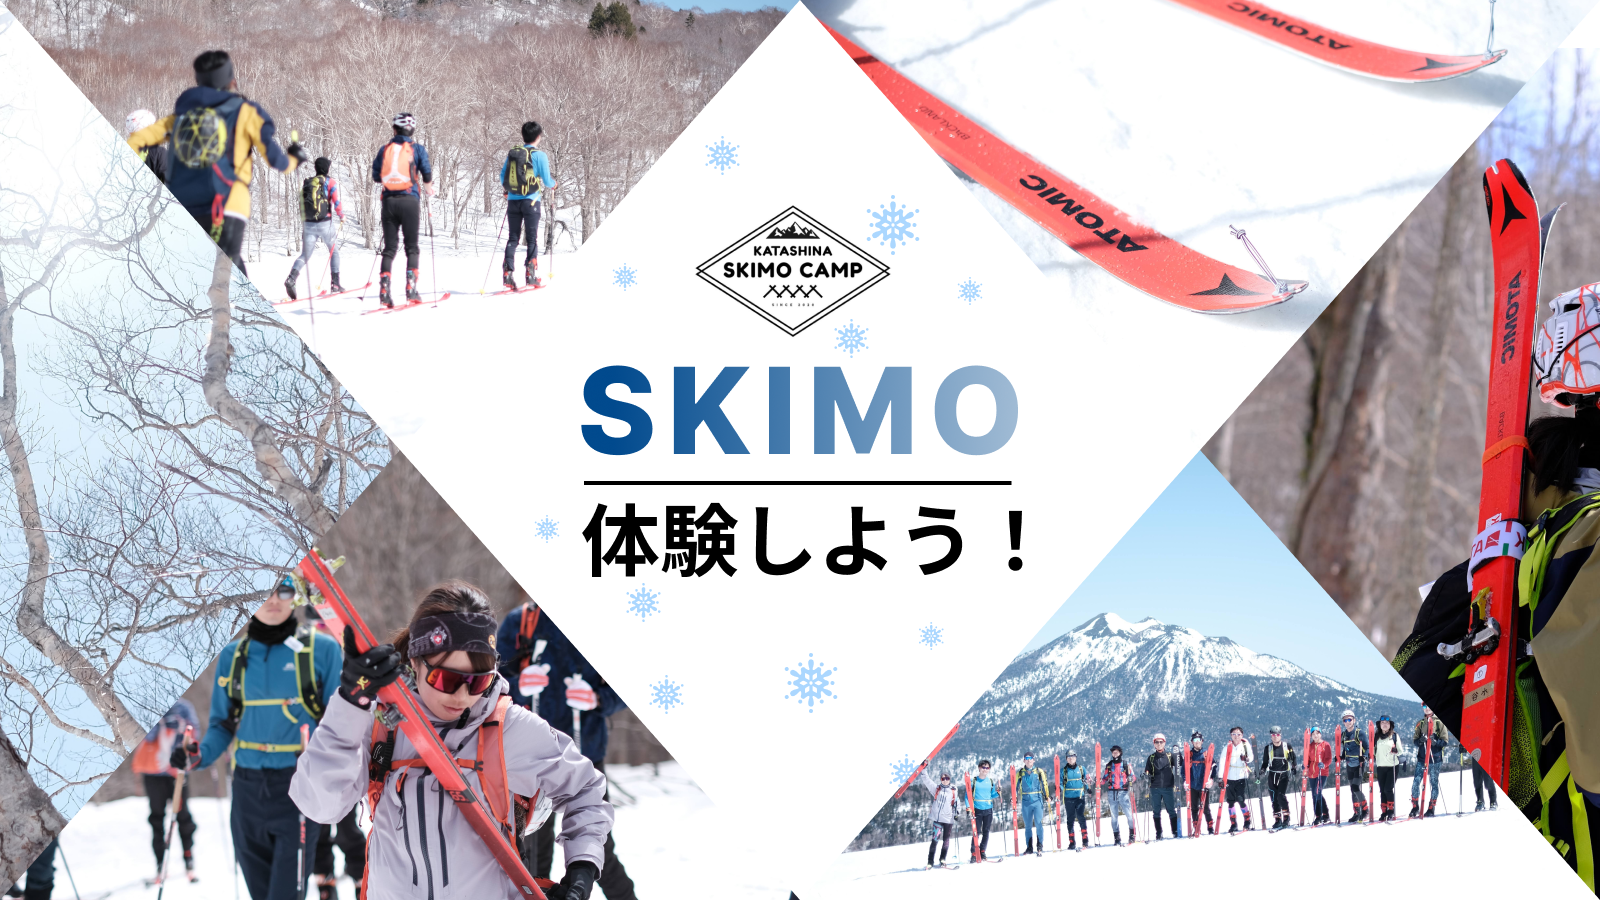
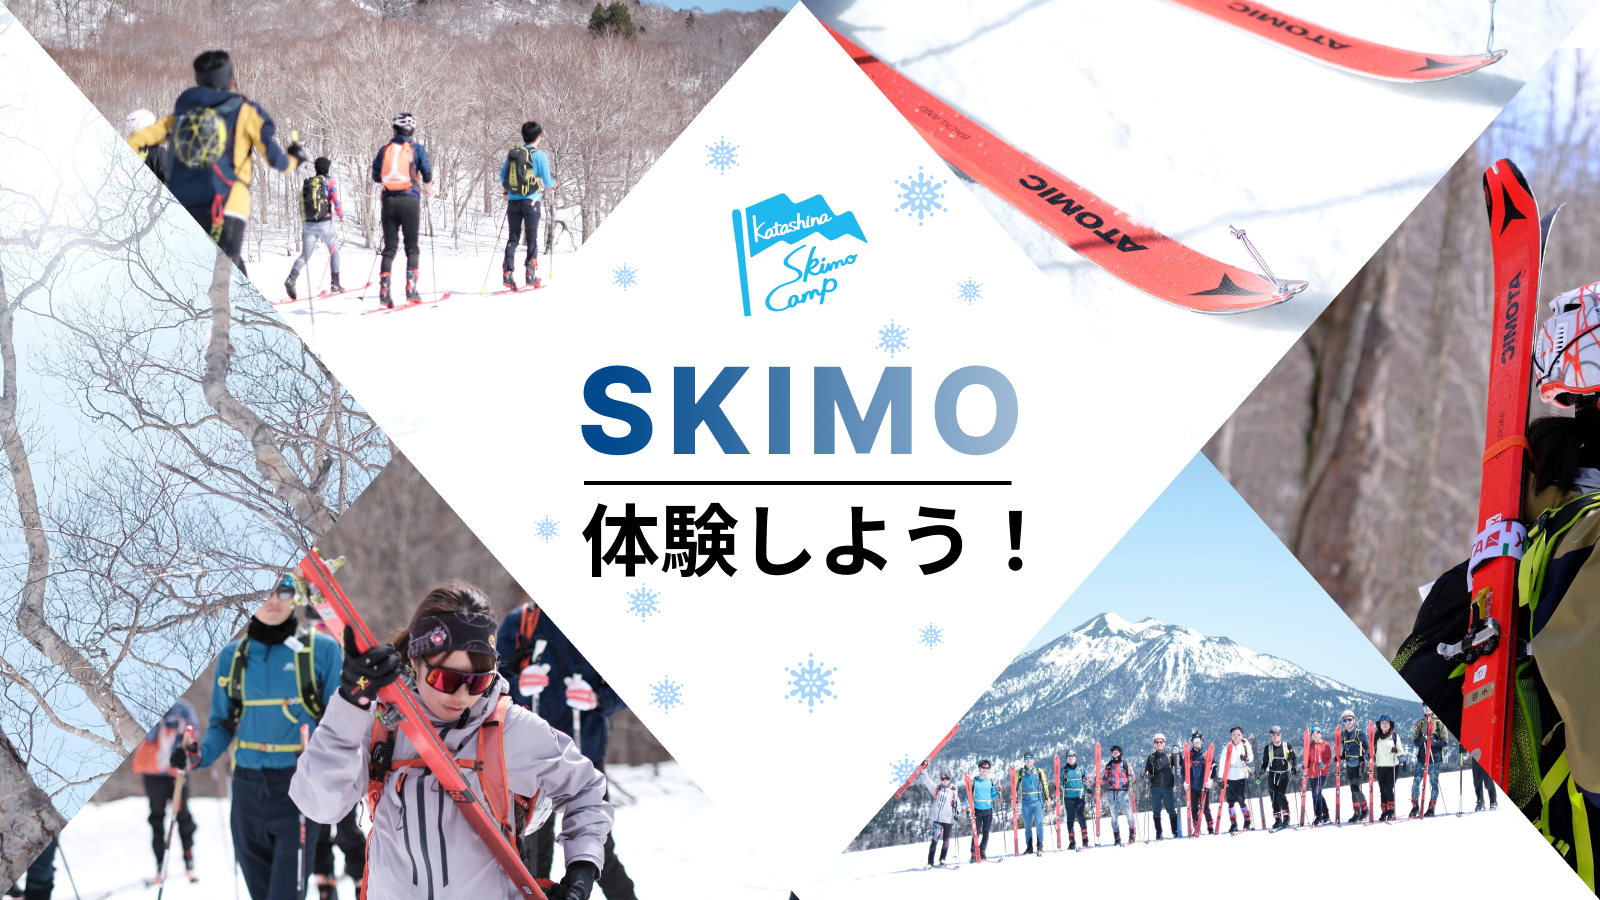
ロゴ変更、フォトギャラリー追加

Changed region(s): [[0.4375, 0.1867, 0.5938, 0.4044]]

diff --git a/pages/photo.js b/pages/photo.js
@@ -46,6 +46,14 @@ export default function Contact() {
                   </div>
                 </div>
               </a>
+              <a href='https://photos.app.goo.gl/XySjMbdCPE9BYdMe7' target="_blank">
+                <div class="bg-20230108-basic1 w-full bg-cover bg-center group rounded-lg overflow-hidden shadow-lg hover:opacity-90 transition duration-300 ease-in-out">
+                  <div class="px-4 sm:px-6 lg:px-4 flex justify-center items-center grid py-16">
+                    <h2 class="text-center text-white text-3xl font-bold w-full mb-4">2023/1/8-1/9<br/>BASIC Vol.1</h2>
+                    <p class="border w-full p-3 text-white text-center font-bold">フォトギャラリー</p>
+                  </div>
+                </div>
+              </a>
             </div>
           </section>
         </main>

diff --git a/pages/_app.js b/pages/_app.js
@@ -25,7 +25,7 @@ function MyApp({ Component, pageProps }) {
           url: 'https://katashinaskimocamp.com',
           images: [
               {
-                url: 'https://katashinaskimocamp.com/_next/image?url=%2Fimages%2Flogo.jpg&w=3840&q=75',
+                url: 'https://katashinaskimocamp.com/_next/image?url=%2Fimages%2Flogo.png&w=3840&q=75',
                 width: 700,
                 height: 400,
                 alt: 'katashina skimo camp',

diff --git a/tailwind.config.js b/tailwind.config.js
@@ -27,6 +27,7 @@ module.exports = {
         '20220403-ind-kurahashi': "url('/images/race/20220403-ind-kurahashi.jpg')",
         '20220403-ind-sekiguchi': "url('/images/race/20220403-ind-sekiguchi.jpg')",
         '20220416-quest2': "url('/images/20220416-quest2.jpg')",
+        '20230108-basic1': "url('/images/20230108-basic1.jpg')",
       }
     },
   },
